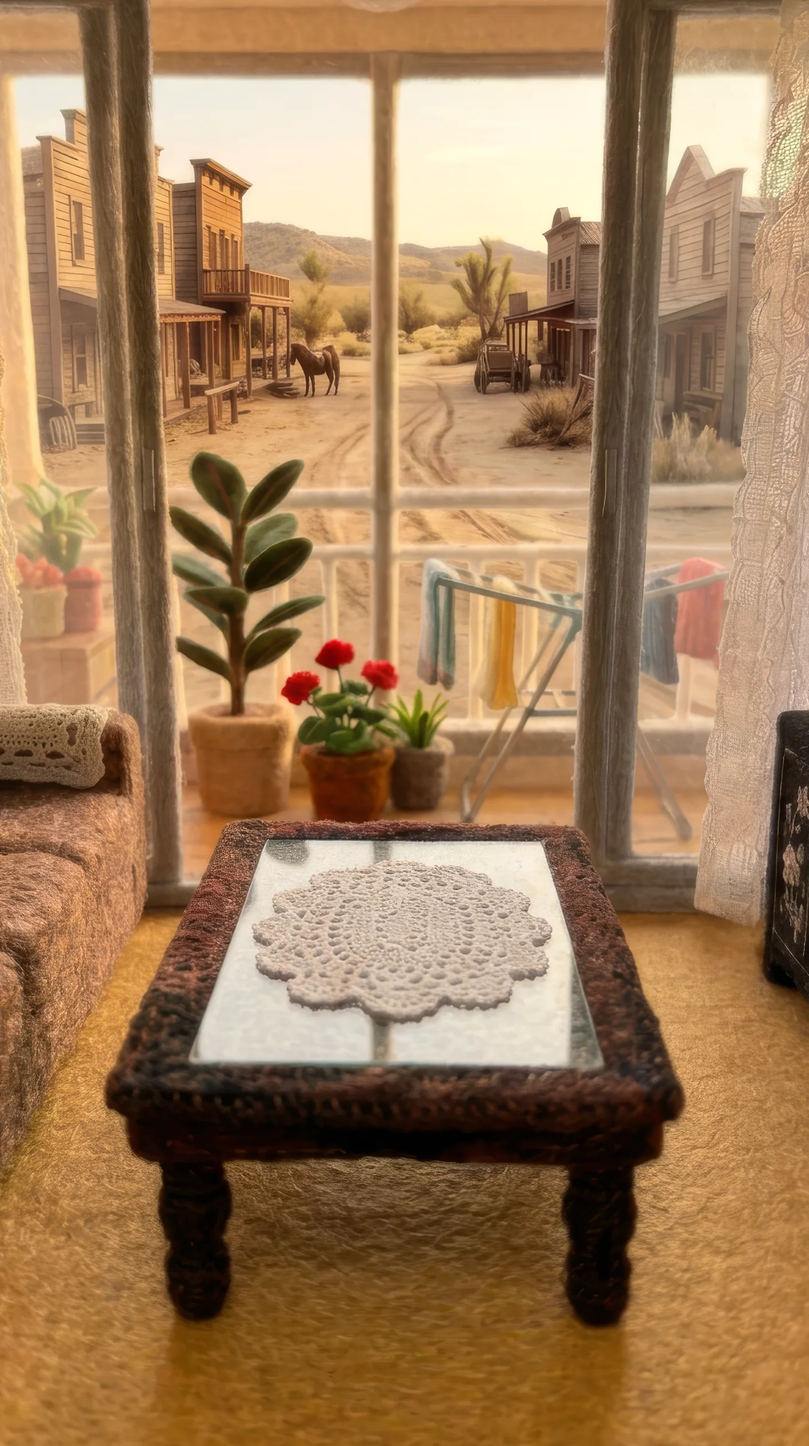
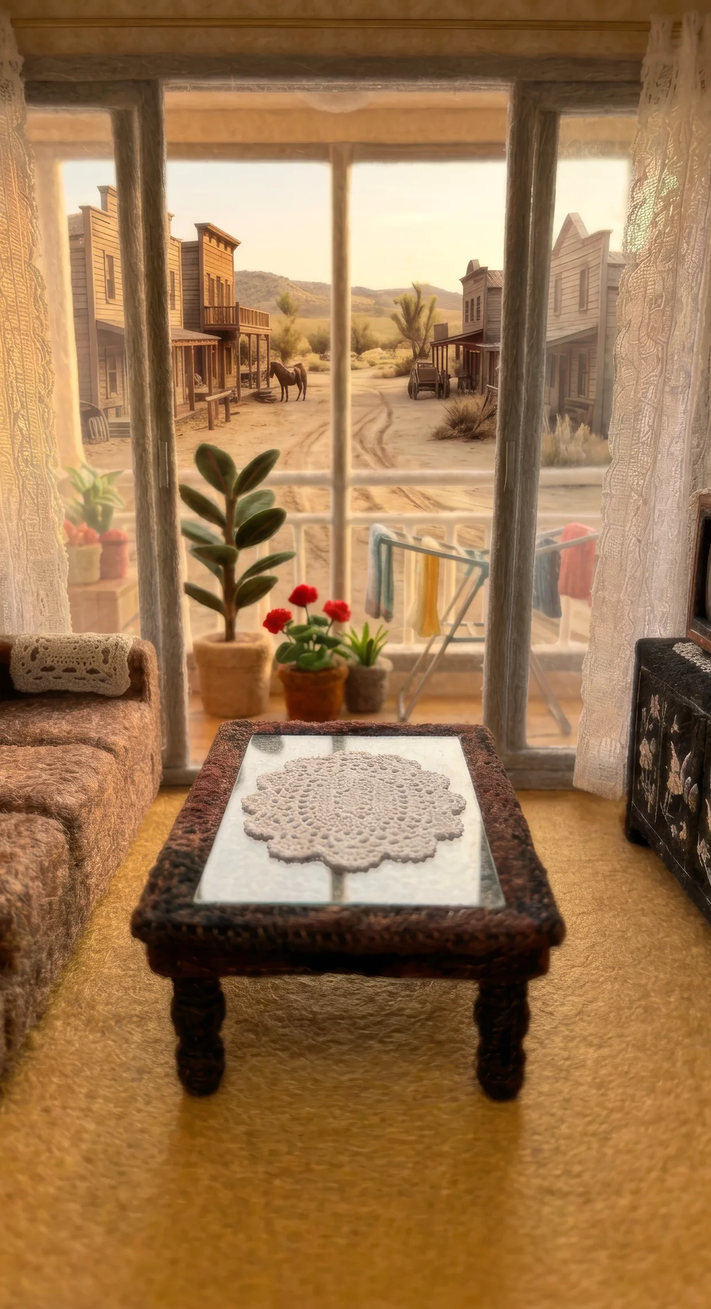
Kitchen: zoom the room out to the sofa and TV; props keep their size
Claude-Session: https://claude.ai/code/session_013W8aaY5LYoDY942QMaSBcA

diff --git a/kitchen.html b/kitchen.html
@@ -37,14 +37,14 @@ const POT={x:240,base:506,rx:62,ry:17,hgt:76,DEPTH:38};
 const KNOB={x:332,y:561,r:14};
 const potRim=()=>POT.base-POT.hgt;
 /* the coffee table's top surface in world space (from the table's place in the room photo): where spilled water can pool */
-const TOP={y0:436,y1:666,bl:161,br:364,bf:583,
+const TOP={y0:470,y1:624,bl:161,br:364,bf:583,
   /* the glass top is a trapezoid in perspective: narrower at the back edge, wider at the front (measured off the kitchen photo) */
-  inside(x,y){const t=clamp((y-436)/(666-436),0,1);return x>lerp(89,20,t)&&x<lerp(395,442,t);}};
+  inside(x,y){const t=clamp((y-470)/(624-470),0,1);return x>lerp(139,94,t)&&x<lerp(343,374,t);}};
 /* view zoom: the whole kitchen is drawn a bit smaller around the bottom-center of the screen, easing back to 1 for the hero shot */
 const VIEWK=.88;
 function viewK(){return lerp(VIEWK,1,typeof S==='undefined'?0:heroE());}
 /* the camera is panned so the scene sits higher, leaving breathing room at the bottom; the pan eases out for the hero shot */
-const PAN=94,TILT=-343,TILT_T=200;
+const PAN=94,TILT=-206,TILT_T=170;
 /* the scene opens looking out the window at San Ramyeon's main street, then tilts down to the table */
 function tiltE(){if(typeof S==='undefined')return 1;const t=Math.min(1,S.t/TILT_T);return t<.5?2*t*t:1-Math.pow(-2*t+2,2)/2;}
 function panY(){if(typeof S==='undefined')return PAN;return PAN*(1-heroE())+TILT*(1-tiltE());}
@@ -501,7 +501,7 @@ function camOn(){g.scale(CAM.z,CAM.z);g.translate(-CAM.x0,-CAM.y0);}
 /* the kitchen is one rendered photo (room, table, burner, empty pot); the separate pieces only come back for the plating transition */
 /* the San Ramyeon living room: one felt photo of the room, the window onto the town's main street and the coffee table,
    placed in world space so its glass top lines up with TOP. The burner, pot and kettle are separate cut-outs on top. */
-const SR={x:-181.2,y:-442.4,w:846,h:1512,cut:416};
+const SR={x:-88.8,y:-211.6,w:660,h:1213.4,cut:452};
 function drawSR(part){const im=ART.sr;if(!ok(im))return false;
   if(!part){g.drawImage(im,SR.x,SR.y,SR.w,SR.h);return true;}
   /* for the plating transition the photo splits at the table's back edge: the room lifts away, the table drops */
